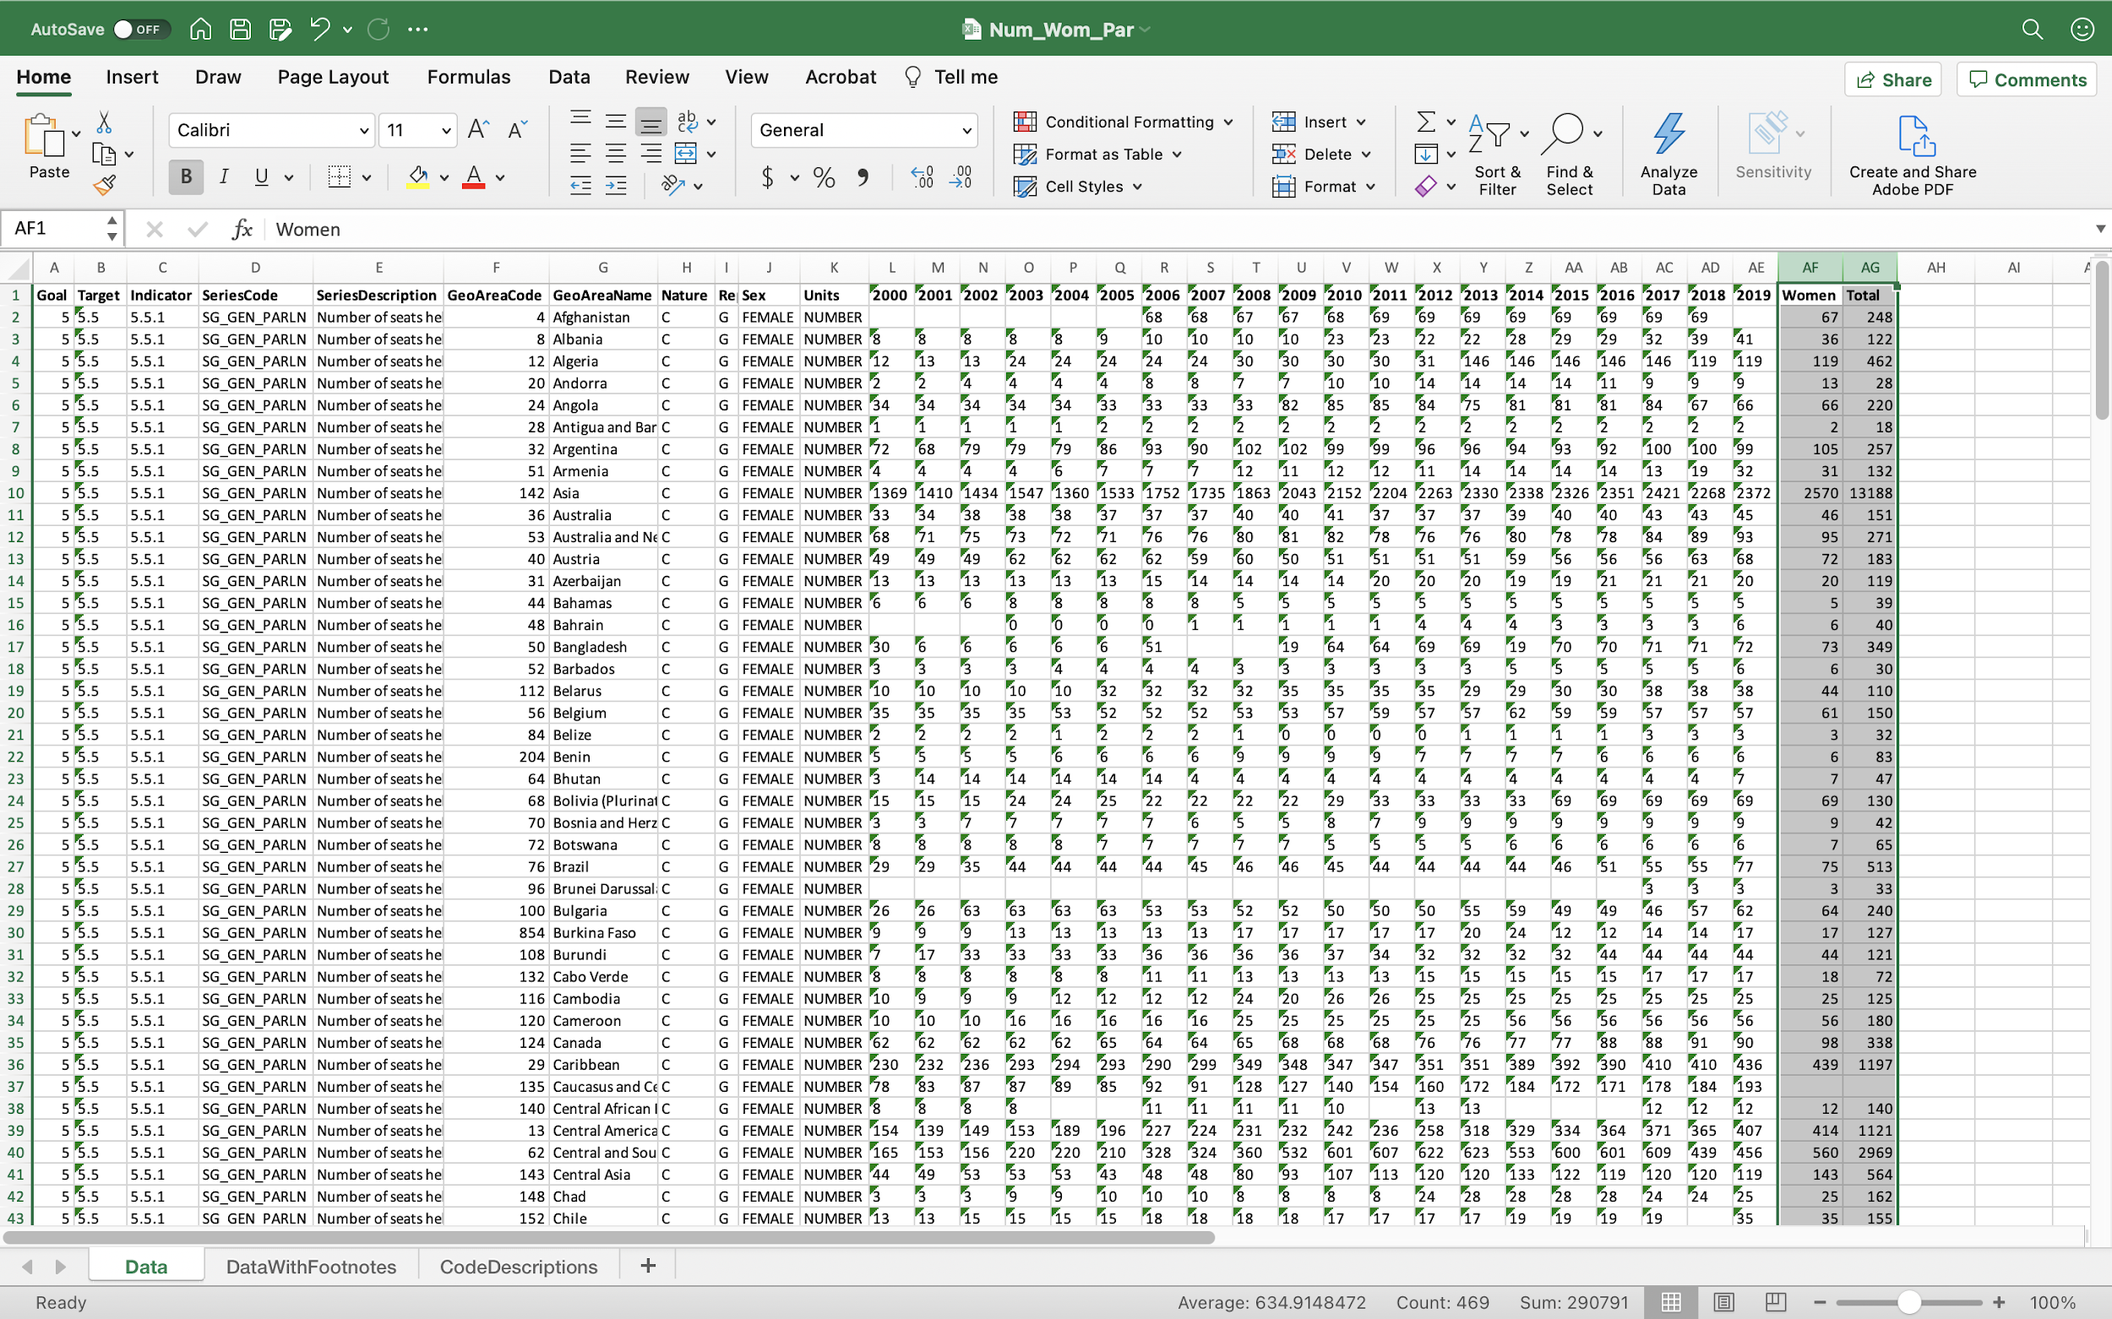
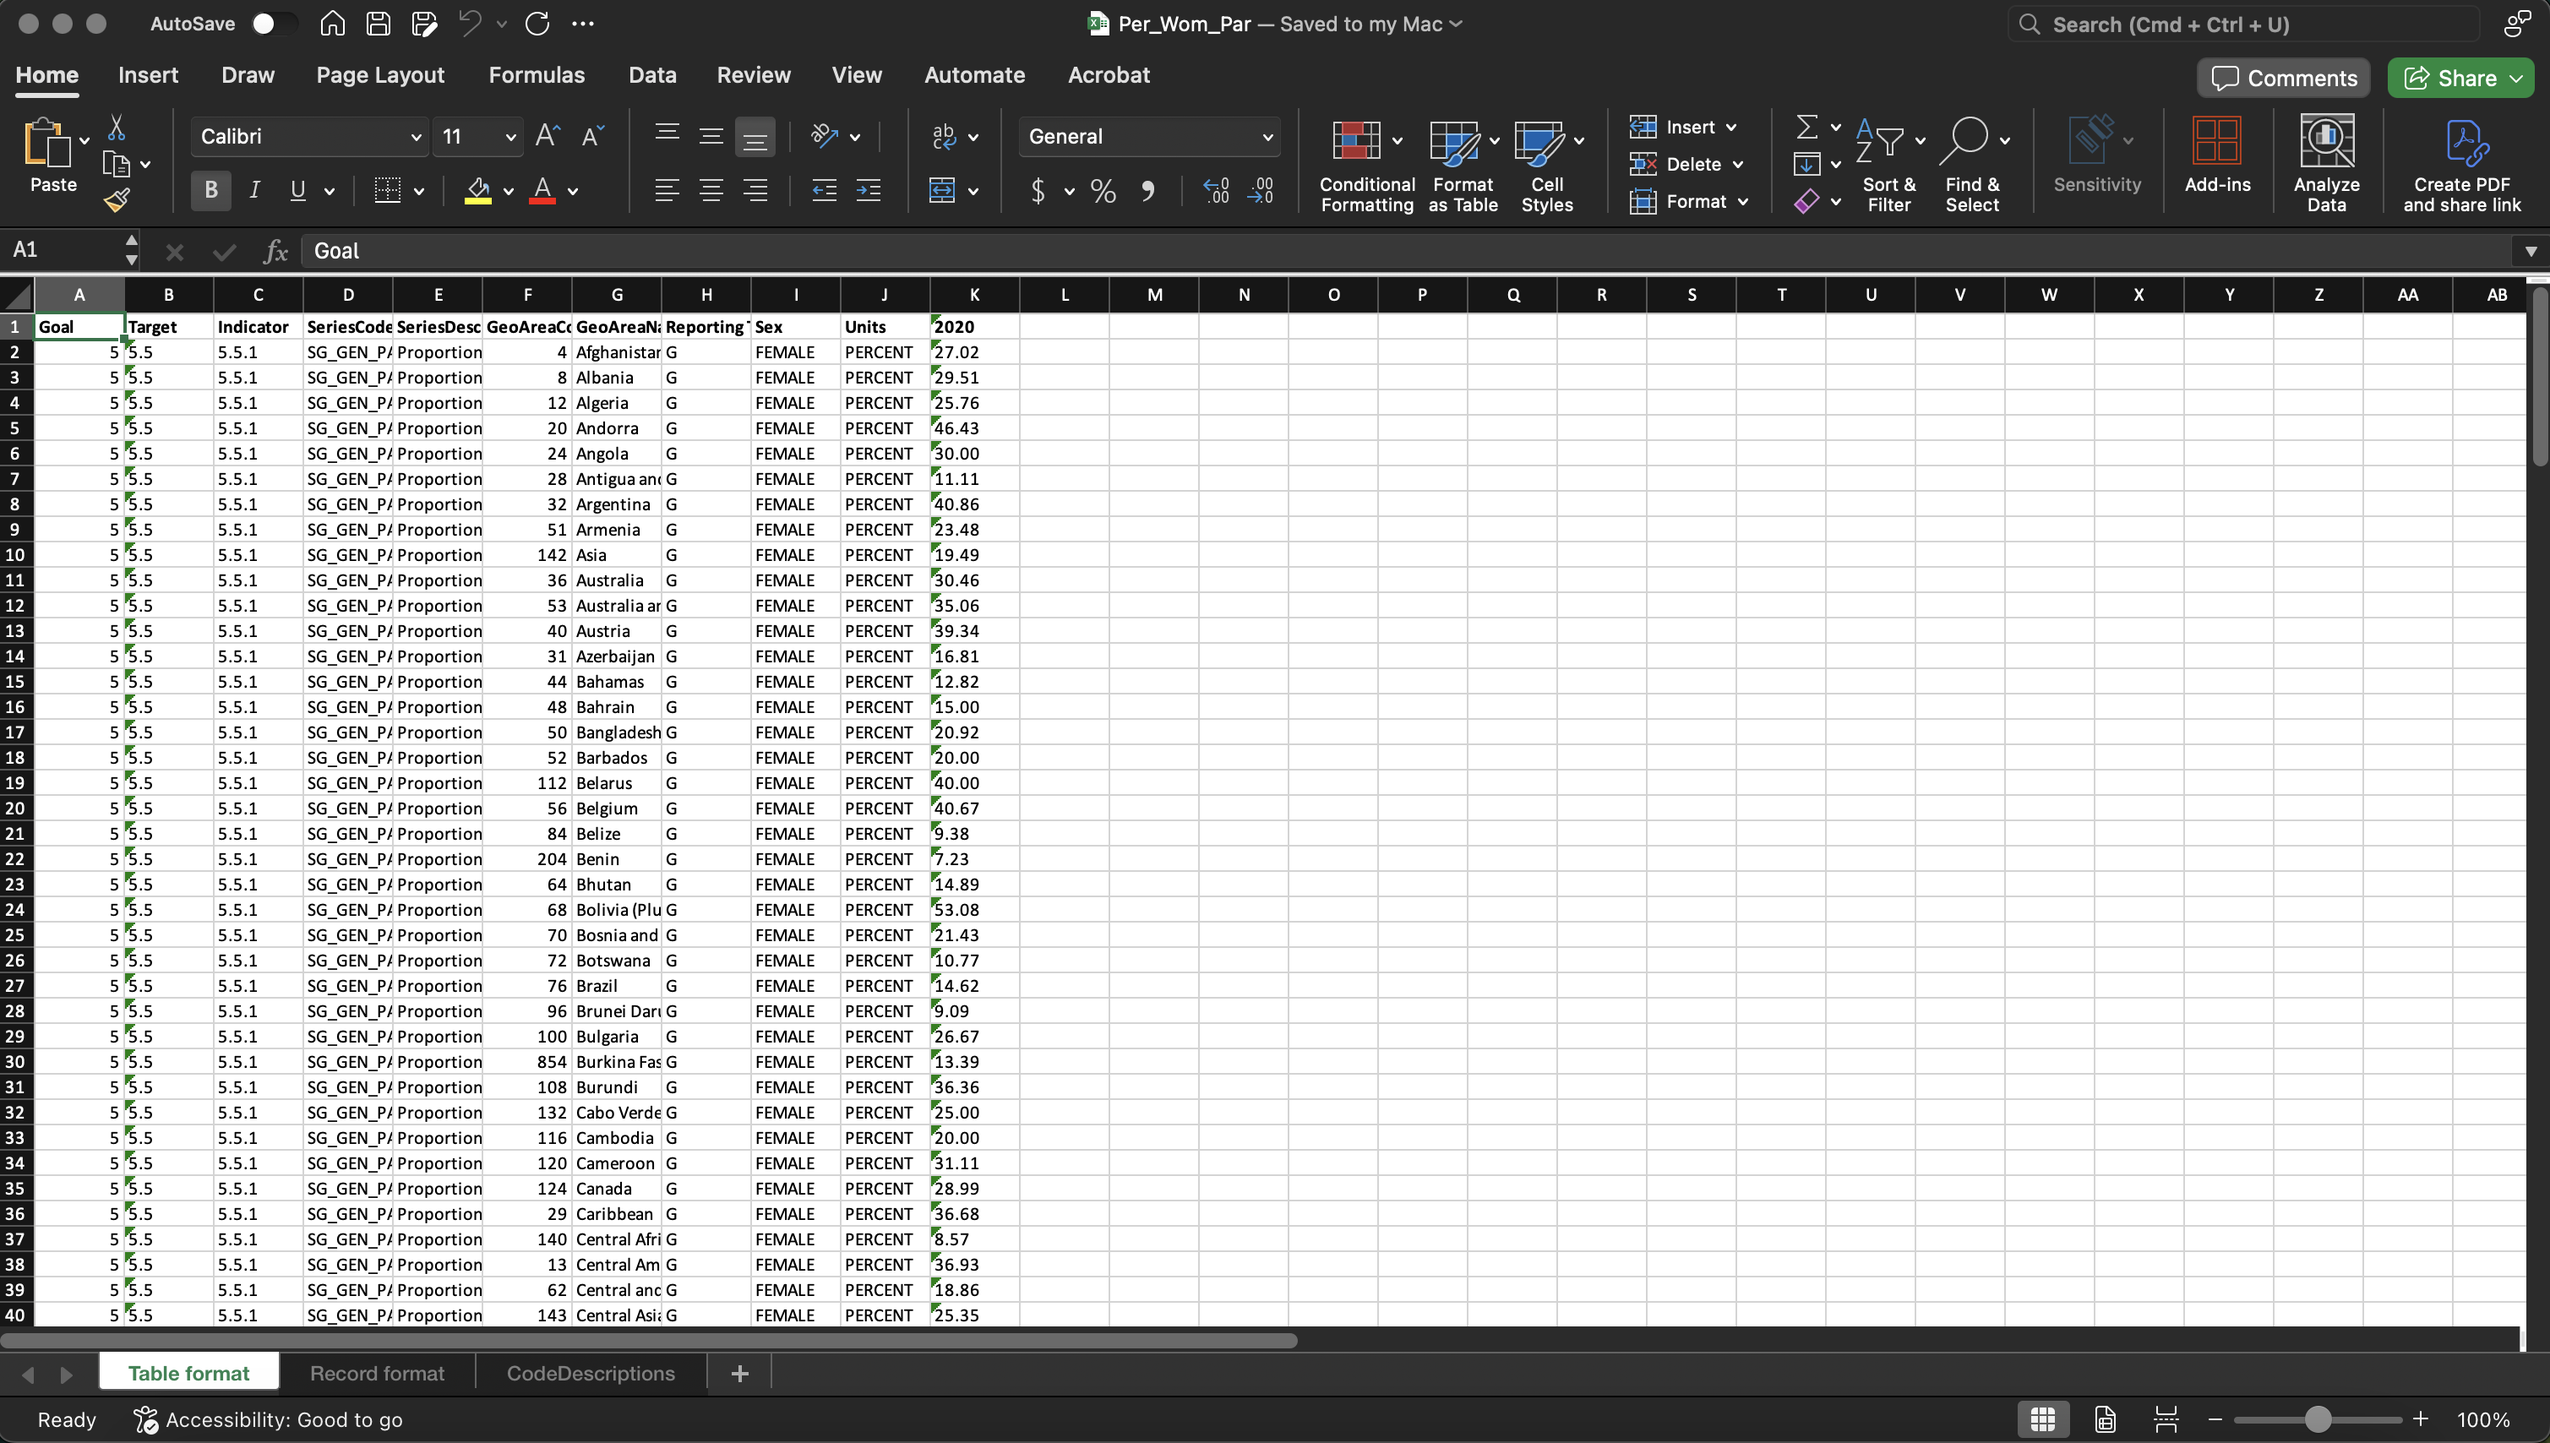
update data cleaning chapter choropleth

diff --git a/1_Choropleth/1.4_Clean_Data.md b/1_Choropleth/1.4_Clean_Data.md
@@ -6,21 +6,19 @@
 
 **Renaming Datasets**
 
-Open *SG_GEN_PARLN.xlsx* (number of women in parliament) and *SG_GEN_PARLNT.xlsx* (total members of parliament).
+Open *SG_GEN_PARL.xlsx* (percentage of women in parliament).
 
-Rename these files to something easier to understand. Click *File,* then *Save As...* for *SG_GEN_PARL.xlsx* and name it *Num_Wom_Par.xlsx (Figure 1.4-1)*.
+Rename these files to something easier to understand. Click *File,* then *Save As...* for *SG_GEN_PARL.xlsx* and name it *Per_Wom_Par.xlsx (Figure 1.4-1)*.
 
 ![](1.4_Clean_Data_images/image_0.png)
 
 ###### Figure 1.4-1: Excel spreadsheet of edited data for choropleth map.
 
-Repeat this process for *SG_GEN_PARLNT.xlsx* and name it *Num_Tot_Par.xlsx*.
-
 You created copies of the original files because you are going to edit the new files. Preserving the original file for future use is good data management practice.
 
 **Converting to Qualitative Numbers**
 
-Select the entire *2020* column in *Num_Wom_Par.xlsx* by clicking the header. A yellow triangle with a *!* pops up. The data is *Number Stored as Text*, which is interpreted by mapping software as nominal-level or qualitative data. However, choropleth maps require ordinal-level or ***quantitative*** (***interval*** or ***ratio***) data.
+Select the entire *2020* column in *Per_Wom_Par.xlsx* by clicking the header. A yellow triangle with a *!* pops up. The data is *Number Stored as Text*, which is interpreted by mapping software as nominal-level or qualitative data. However, choropleth maps require ordinal-level or ***quantitative*** (***interval*** or ***ratio***) data.
 
 > ***Quantitative data***: interval- and ratio-level data together (see **Section 1.4**)
 
@@ -34,19 +32,7 @@ Click *Convert to Number* to enable QGIS to interpret the attribute as quantitat
 
 **Combining Attribute Datasets**
 
-Complete several optional cleaning steps for clarity when combining attribute columns from multiple datasets.
-
-Rename the *2020* column in *Num_Wom_Par.xlsx* as *Women*. You will only copy the data from 2020 given the subject of the choropleth map, see [**Tutorial 1.1**](/1_Choropleth/1.1_Scope.md). 
-
-Open *Num_Tot_Par.xlsx*. Find the *2020* column in this table. Like before, convert the data from qualitative text to quantitative numbers.
-
-Select the entire *2020* column in *Num_Tot_Par.xlsx* by clicking the header and *Copy* it. Open your *Num_Wom_Par.xlsx* spreadsheet and right click on the column to the right of your *Women* column to paste this column. Rename the copied *2020* column *Total*.
-
-Check to make sure the data copied properly. Scroll to the bottom of the data and verify each column has the same number of rows. Luckily, the United Nations has a very tidy database for the SDG indicators, providing a row for each country even when the data are missing or unreported, thus making the rows the same across all downloaded datasets. 
-
-However, if you download data from other sources in the future, this process might not be so simple. Further, if you sorted the data by a column header for any reason, you will need to do so for both files in order to copy a column from one dataset into another dataset.
-
-You have a lot of other columns in your table. You do not need to convert them to a number because you will not be using them in this project and even can delete them altogether. Because you made a copy of your originally downloaded files, you still have access to the additional years if you later revise your plan to map temporal data (*Figure 1.4-2*, see **Section 3.9**).
+For this map you only downloaded data from 2020. However, for future maps you may want to download all years if you revise your plan and decide to map temporal data (*Figure 1.4-2*, see **Section 3.9**).
 
 ![](1.4_Clean_Data_images/image_1.png)
 
@@ -57,8 +43,6 @@ You have a lot of other columns in your table. You do not need to convert them t
 Save the file again using your project folder. QGIS will not read the Excel file format, so save the data as a Comma Separated Value (CSV) file. Click *File→Save as…* and name the file *unwp.csv*. Switch the File Format to *CSV UTF-8 (Comma delimited) (.csv)* and click *Save*. 
 
 Because this document has multiple spreadsheets, you will receive a minor error message. You can only save one spreadsheet at a time as a .csv file. You only need the sheet you have been working on, so click *OK*.
-
-Also save the County Code file in the .csv format. Open *Comtrade Country Code and ISO list.xlsx*. Luckily, you do not need to reformat anything on this spreadsheet. Repeat the steps above, naming this file *cc*.*csv*.
 
 Now that your data is cleaned, proceed to [**Tutorial 1.5**: Creating a Project and Setting the Projection](/1_Choropleth/1.5_Project_and_Save.md).
 
